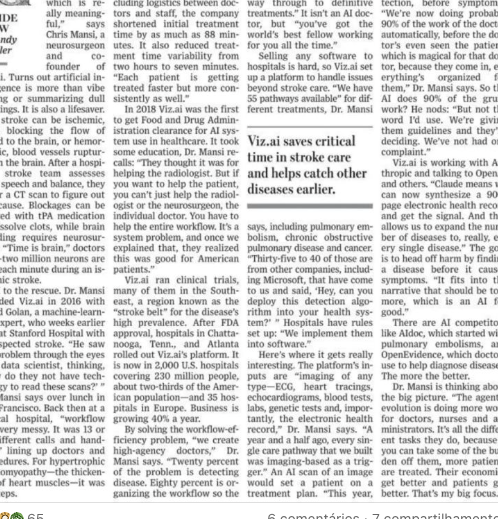
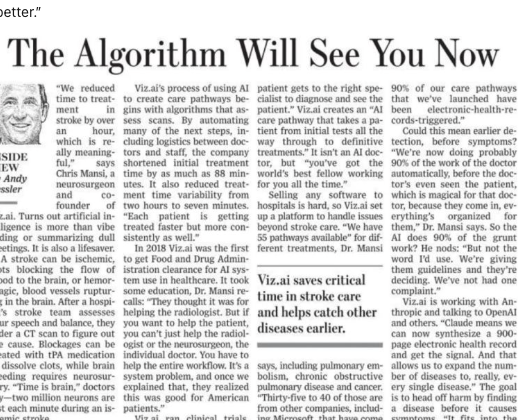
feat: round-3.1 — Rorschach inkblot art + OpenEvidence overflow + Viz.ai re-crop
- New rorschach.png asset + light-inverted variant for dark slides
- Rorschach slide reworked: inkblot integrated as background art (mix-blend screen, 55% opacity, drop-shadow)
- Text shifted left (max-width 56%) to leave inkblot visible on right
- OpenEvidence slide: compact two-column layout with bounded image height
  and 14pt text — fits in the 720px frame
- Viz.ai screenshot re-cropped to include the article title 'The Algorithm Will See You Now'

diff --git a/index.html b/index.html
@@ -155,6 +155,22 @@
 
     /* ── Two-col (regulation, capabilities) ────────────────── */
     .heads-content.heads-dark .heads-two-col h3 { color: #FFFFFF; }
+
+    /* ── Rorschach slide ───────────────────────────────────── */
+    .heads-rorschach { position: relative; overflow: hidden; }
+    .heads-rorschach .rorschach-art {
+      position: absolute;
+      right: -4%;
+      top: 50%;
+      transform: translateY(-50%);
+      height: 88%;
+      width: auto;
+      opacity: 0.55;
+      mix-blend-mode: screen;
+      filter: drop-shadow(0 0 30px rgba(124,137,184,0.35));
+      pointer-events: none;
+      z-index: 1;
+    }
   </style>
 </head>
 <body>
@@ -476,13 +492,16 @@
       </div>
     </section>
 
-    <!-- 14b. Rorschach — restored -->
-    <section class="heads-claim heads-dark">
+    <!-- 14b. Rorschach — inkblot integrated -->
+    <section class="heads-content heads-dark heads-rorschach">
       <div class="heads-progress-strip"><span class="pill active">eval</span><span class="pill">regulation</span><span class="pill">agents</span><span class="pill">evidence</span><span class="pill">clinic</span></div>
-      <div class="label">A way to see it</div>
-      <p class="claim-text">"Same data, two readings. The literature on LLMs in healthcare is a Rorschach — the answer you find depends on where you decided to look."</p>
-      <hr class="claim-rule">
-      <p class="claim-prompt">Both papers are right. The question is which slice of "performance" you measured.</p>
+      <img class="rorschach-art" src="assets/rorschach-light.png" alt="Rorschach inkblot">
+      <div class="body" style="position: relative; z-index: 2; max-width: 56%;">
+        <div style="font-size: 11pt; font-weight: 600; color: rgba(255,255,255,0.55); letter-spacing: 0.12em; text-transform: uppercase; margin-bottom: 14px;">A way to see it</div>
+        <h2 style="font-size: 30pt; line-height: 1.18; margin: 0 0 18px 0;">The literature on LLMs in healthcare is a Rorschach.</h2>
+        <p style="font-size: 17pt; line-height: 1.45; margin: 0 0 14px 0; color: rgba(255,255,255,0.88);">Same data, two readings. The answer you find depends on where you decided to look.</p>
+        <p style="font-size: 14pt; color: rgba(255,255,255,0.65); margin: 0; font-style: italic;">Brodeur and Bean–Mahdi are both right. The question is which slice of "performance" you measured.</p>
+      </div>
     </section>
 
     <!-- 15. Resolution claim — reformulated -->
@@ -560,20 +579,20 @@
       <p class="subtitle">Where the line is — and isn't.</p>
     </section>
 
-    <!-- 20. OpenEvidence — info panel layout -->
+    <!-- 20. OpenEvidence — compact two-column, fits in slide -->
     <section class="heads-content">
       <div class="heads-progress-strip"><span class="pill">eval</span><span class="pill active">regulation</span><span class="pill">agents</span><span class="pill">evidence</span><span class="pill">clinic</span></div>
       <h2>A live case: OpenEvidence in Europe</h2>
       <div class="title-rule"></div>
       <div class="body">
-        <div class="heads-image-side">
-          <div class="image-frame heads-screenshot">
-            <img src="assets/openevidence-eu-uk-blocked.png" alt="OpenEvidence blocked in EU/UK">
+        <div style="display: grid; grid-template-columns: 1.4fr 1fr; gap: 32px; align-items: center;">
+          <div style="background: var(--heads-bg-soft); border-radius: 4px; padding: 10px; max-height: 440px; display: flex; align-items: center; justify-content: center;">
+            <img src="assets/openevidence-eu-uk-blocked.png" alt="OpenEvidence blocked in EU/UK" style="max-width: 100%; max-height: 420px; object-fit: contain; display: block;">
           </div>
-          <div class="heads-info-panel" style="align-self: center;">
-            <p>This is what opens at <em>openevidence.com</em> from anywhere in the EU or UK today.</p>
-            <p>OpenEvidence is a medical search engine with AI-synthesised answers, popular among US clinicians — where it remains live.</p>
-            <p>In the EU and UK it <strong>was</strong> available; it withdrew in 2026, citing the EU AI Act and adjacent regulation.</p>
+          <div style="font-size: 14pt; line-height: 1.45;">
+            <p style="margin: 0 0 12px 0;">This is what opens at <em>openevidence.com</em> from anywhere in the EU or UK today.</p>
+            <p style="margin: 0 0 12px 0;">OpenEvidence is a medical search engine with AI-synthesised answers, popular with US clinicians — where it remains live.</p>
+            <p style="margin: 0; padding-top: 10px; border-top: 2px solid var(--heads-lavender);">In the EU and UK it <strong>was</strong> available. It withdrew in 2026, citing the EU AI Act and adjacent regulation.</p>
           </div>
         </div>
       </div>
